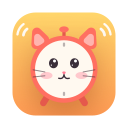
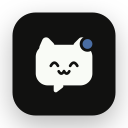
앱 아이콘과 메뉴바 아이콘을 고양이 귀 말풍선으로 바꾸기
- AppIconArt: 고양이 귀 말풍선 + 웃는 얼굴 + 파란 알림 점을 코드로 그림
- 앱 아이콘(iconset)과 메뉴바 템플릿 아이콘이 같은 모양을 씀

diff --git a/NotiPet/Utilities/AppIconArt.swift b/NotiPet/Utilities/AppIconArt.swift
@@ -1,0 +1,105 @@
+// AppIconArt.swift
+// The NotiPet mark: a cat-eared speech bubble with a smiling face and a blue notification dot
+// on its right ear. Drawn with CoreGraphics so the app icon (scripts/make-icon.swift) and the
+// menu bar glyph (MenuBarIcon) share one shape.
+//
+// Coordinates are in "design units": y grows downward, the bubble spans roughly x 313…808,
+// y 303…820. `Mapping` turns them into the target context's space.
+
+import CoreGraphics
+
+enum AppIconArt {
+
+    struct Mapping {
+        /// Design units → context points.
+        let scale: CGFloat
+        /// Context point where design (0, 0) lands.
+        let origin: CGPoint
+        /// CoreGraphics contexts are y-up; the design is y-down.
+        let flipY: Bool
+
+        func p(_ x: CGFloat, _ y: CGFloat) -> CGPoint {
+            CGPoint(x: origin.x + x * scale, y: flipY ? origin.y - y * scale : origin.y + y * scale)
+        }
+        func len(_ v: CGFloat) -> CGFloat { v * scale }
+    }
+
+    private enum Colors {
+        static let background = CGColor(srgbRed: 0.067, green: 0.067, blue: 0.063, alpha: 1)
+        static let bubble = CGColor(srgbRed: 0.976, green: 0.984, blue: 0.965, alpha: 1)
+        static let dot = CGColor(srgbRed: 0.290, green: 0.427, blue: 0.639, alpha: 1)
+    }
+
+    // MARK: - App icon
+
+    /// Full-colour icon on a 1024×1024 y-up canvas (macOS icon grid: 824 pt rounded square).
+    static func drawAppIcon(in ctx: CGContext) {
+        let tile = CGRect(x: 100, y: 100, width: 824, height: 824)
+        let tilePath = CGPath(roundedRect: tile, cornerWidth: 185, cornerHeight: 185, transform: nil)
+
+        ctx.saveGState()
+        ctx.setShadow(offset: CGSize(width: 0, height: -10), blur: 28, color: CGColor(gray: 0, alpha: 0.28))
+        ctx.addPath(tilePath)
+        ctx.setFillColor(Colors.background)
+        ctx.fillPath()
+        ctx.restoreGState()
+
+        // Design square 110…1010 (900 units) → tile 100…924 (824 pt).
+        let scale = tile.width / 900
+        let map = Mapping(scale: scale, origin: CGPoint(x: tile.minX - 110 * scale, y: tile.maxY + 110 * scale), flipY: true)
+        drawMark(in: ctx, map: map, ink: Colors.bubble, cut: Colors.background, dot: Colors.dot, featureWidth: map.len(24))
+    }
+
+    // MARK: - Mark
+
+    /// The bubble cat. `cut` paints the face and the ring around the dot; pass nil to punch
+    /// them out (clear) instead, as the template menu bar glyph does.
+    static func drawMark(in ctx: CGContext, map: Mapping, ink: CGColor, cut: CGColor?, dot: CGColor, featureWidth: CGFloat) {
+        ctx.saveGState()
+        ctx.setFillColor(ink)
+
+        // Body.
+        let body = CGRect(origin: map.p(313, map.flipY ? 747 : 392),
+                          size: CGSize(width: map.len(495), height: map.len(355)))
+        ctx.addPath(CGPath(roundedRect: body, cornerWidth: map.len(105), cornerHeight: map.len(105), transform: nil))
+        ctx.fillPath()
+
+        // Ears and tail: triangles with rounded tips.
+        fillRounded(ctx, [map.p(318, 470), map.p(392, 300), map.p(510, 420)], radius: map.len(36))
+        fillRounded(ctx, [map.p(608, 420), map.p(728, 300), map.p(802, 470)], radius: map.len(36))
+        fillRounded(ctx, [map.p(470, 735), map.p(470, 826), map.p(590, 735)], radius: map.len(18))
+
+        // Face.
+        if let cut { ctx.setStrokeColor(cut) } else { ctx.setBlendMode(.clear) }
+        ctx.setLineWidth(featureWidth)
+        ctx.setLineCap(.round)
+        ctx.setLineJoin(.round)
+        for eyeX: CGFloat in [476, 645] {
+            ctx.move(to: map.p(eyeX - 31, 576))
+            ctx.addQuadCurve(to: map.p(eyeX + 31, 576), control: map.p(eyeX, 522))
+        }
+        ctx.move(to: map.p(514, 624))
+        ctx.addQuadCurve(to: map.p(560, 622), control: map.p(537, 664))
+        ctx.addQuadCurve(to: map.p(606, 624), control: map.p(583, 664))
+        ctx.strokePath()
+
+        // Notification dot with a ring cut into the ear.
+        let center = map.p(765, 385)
+        if let cut { ctx.setFillColor(cut) }
+        ctx.fillEllipse(in: CGRect(x: center.x - map.len(68), y: center.y - map.len(68), width: map.len(136), height: map.len(136)))
+        ctx.setBlendMode(.normal)
+        ctx.setFillColor(dot)
+        ctx.fillEllipse(in: CGRect(x: center.x - map.len(43), y: center.y - map.len(43), width: map.len(86), height: map.len(86)))
+        ctx.restoreGState()
+    }
+
+    private static func fillRounded(_ ctx: CGContext, _ points: [CGPoint], radius: CGFloat) {
+        let mid = CGPoint(x: (points[0].x + points[2].x) / 2, y: (points[0].y + points[2].y) / 2)
+        ctx.move(to: mid)
+        ctx.addArc(tangent1End: points[0], tangent2End: points[1], radius: radius)
+        ctx.addArc(tangent1End: points[1], tangent2End: points[2], radius: radius)
+        ctx.addArc(tangent1End: points[2], tangent2End: mid, radius: radius)
+        ctx.closePath()
+        ctx.fillPath()
+    }
+}

diff --git a/NotiPet/MenuBar/MenuBarIcon.swift b/NotiPet/MenuBar/MenuBarIcon.swift
@@ -1,46 +1,33 @@
 // MenuBarIcon.swift
-// Menu bar glyph matching the app icon: a cat-eared alarm clock, drawn as a template image
-// so macOS tints it for light/dark menu bars.
+// Menu bar glyph matching the app icon: the bubble cat with its notification dot, drawn as a
+// template image (face and dot ring punched out) so macOS tints it for light/dark menu bars.
 
 import AppKit
 
 enum MenuBarIcon {
 
+    private enum Metrics {
+        static let size: CGFloat = 18
+        /// Design units the glyph spans (AppIconArt): x 300…830, y 290…830.
+        static let designLeft: CGFloat = 300
+        static let designTop: CGFloat = 290
+        static let designWidth: CGFloat = 530
+        static let inset: CGFloat = 0.5
+        /// Thicker than the icon's proportions so the face survives at 18 pt.
+        static let featureWidth: CGFloat = 1.4
+    }
+
     static func make() -> NSImage {
-        let image = NSImage(size: NSSize(width: 18, height: 18), flipped: false) { _ in
-            NSColor.black.set()
-
-            // Ears (the alarm bells).
-            for side in [-1.0, 1.0] {
-                let s = CGFloat(side)
-                let ear = NSBezierPath()
-                ear.move(to: NSPoint(x: 9 + s * 2.2, y: 13.2))
-                ear.line(to: NSPoint(x: 9 + s * 6.3, y: 16.6))
-                ear.line(to: NSPoint(x: 9 + s * 6.4, y: 10.6))
-                ear.close()
-                ear.lineJoinStyle = .round
-                ear.fill()
-            }
-
-            // Clock body.
-            let body = NSBezierPath(ovalIn: NSRect(x: 3.2, y: 2.6, width: 11.6, height: 11.6))
-            body.lineWidth = 1.6
-            body.stroke()
-
-            // Legs.
-            let legs = NSBezierPath()
-            legs.move(to: NSPoint(x: 5.4, y: 3.6)); legs.line(to: NSPoint(x: 4.2, y: 1.2))
-            legs.move(to: NSPoint(x: 12.6, y: 3.6)); legs.line(to: NSPoint(x: 13.8, y: 1.2))
-            legs.lineWidth = 1.6
-            legs.lineCapStyle = .round
-            legs.stroke()
-
-            // Striker nub between the ears.
-            NSBezierPath(ovalIn: NSRect(x: 7.6, y: 14.6, width: 2.8, height: 2.0)).fill()
-
-            // Eyes, set wide and high so they read as eyes (a mouth is just noise at 18 pt).
-            NSBezierPath(ovalIn: NSRect(x: 5.7, y: 8.4, width: 1.8, height: 2.1)).fill()
-            NSBezierPath(ovalIn: NSRect(x: 10.5, y: 8.4, width: 1.8, height: 2.1)).fill()
+        let image = NSImage(size: NSSize(width: Metrics.size, height: Metrics.size), flipped: false) { _ in
+            guard let ctx = NSGraphicsContext.current?.cgContext else { return false }
+            let scale = (Metrics.size - Metrics.inset * 2) / Metrics.designWidth
+            let map = AppIconArt.Mapping(
+                scale: scale,
+                origin: CGPoint(x: Metrics.inset - Metrics.designLeft * scale,
+                                y: Metrics.size - Metrics.inset + Metrics.designTop * scale),
+                flipY: true)
+            let black = NSColor.black.cgColor
+            AppIconArt.drawMark(in: ctx, map: map, ink: black, cut: nil, dot: black, featureWidth: Metrics.featureWidth)
             return true
         }
         image.isTemplate = true

diff --git a/scripts/make-icon.swift b/scripts/make-icon.swift
@@ -1,7 +1,7 @@
 // make-icon.swift
-// Writes the NotiPet app icon (the alarm-clock cat from AlarmCatArt) as iconset PNGs.
+// Writes the NotiPet app icon (the bubble cat from AppIconArt) as iconset PNGs.
 //
-//   swiftc -O scripts/make-icon.swift NotiPet/Utilities/AlarmCatArt.swift -o /tmp/make-icon
+//   swiftc -O scripts/make-icon.swift NotiPet/Utilities/AppIconArt.swift -o /tmp/make-icon
 //   /tmp/make-icon NotiPet/Resources/AppIcon.iconset
 
 import AppKit
@@ -24,7 +24,7 @@ enum MakeIcon {
                             bitmapInfo: CGImageAlphaInfo.premultipliedLast.rawValue)!
         ctx.interpolationQuality = .high
         ctx.scaleBy(x: CGFloat(pixels) / 1024, y: CGFloat(pixels) / 1024)
-        AlarmCatArt.draw(in: ctx)
+        AppIconArt.drawAppIcon(in: ctx)
         return NSBitmapImageRep(cgImage: ctx.makeImage()!).representation(using: .png, properties: [:])!
     }
 }

diff --git a/docs/SPEC.md b/docs/SPEC.md
@@ -319,7 +319,7 @@ macOS는 **다른 앱의 알림을 읽는 공식 API를 제공하지 않는다.*
 - [x] **6단계 – 실제 알림 연결**: Accessibility 권한 요청, 카카오톡 등 알림 배너 감지, 앱 필터·이름 바꾸기, 원래 배너 닫기 (카카오톡·디스코드 실기기 확인)
   - macOS 26.6에서 검증. 배너 구조는 버전마다 달라질 수 있으니 안 되면 `open --env NOTIPET_AX_DEBUG=1 build/NotiPet.app` 로 실행하고 `~/Library/Logs/NotiPet/ax.log` 확인
 - [x] **7단계 – 다듬기**: TTS, 말할 때 통통 튀는 애니메이션 (집중 모드 감지는 macOS가 파일 접근을 막아 제거)
-- [x] **8단계 – 펫별 설정·알람**: 펫마다 알림 설정, 펫별 알람(수정, "5분 뒤 다시" 저장), 알람시계 고양이 아이콘·기본 펫, 로컬 HTTP 포트 설정, 자동 테스트(`./test.sh`)
+- [x] **8단계 – 펫별 설정·알람**: 펫마다 알림 설정, 펫별 알람(수정, "5분 뒤 다시" 저장), 알람시계 고양이 기본 펫, 로컬 HTTP 포트 설정, 자동 테스트(`./test.sh`)
 
 ---
 

diff --git a/README.md b/README.md
@@ -145,7 +145,7 @@ open /Applications/NotiPet.app
 ## 3. 처음 실행하면
 
 - 화면에 **기본 펫(알람시계 고양이)**이 나타나요. 통통 뛰면서 가끔 눈을 깜빡여요.
-- 화면 위 **메뉴바에 고양이 귀 알람시계 아이콘**이 생겨요. 알림펫의 모든 메뉴는 여기서 열어요.
+- 화면 위 **메뉴바에 고양이 귀 말풍선 아이콘**이 생겨요. 알림펫의 모든 메뉴는 여기서 열어요.
 - Dock에는 아이콘이 나오지 않아요. 원래 그렇게 만든 거예요.
 
 바로 확인해 보기: 메뉴바 아이콘 → **말풍선 테스트**를 누르면 펫 위에 이렇게 떠요.
